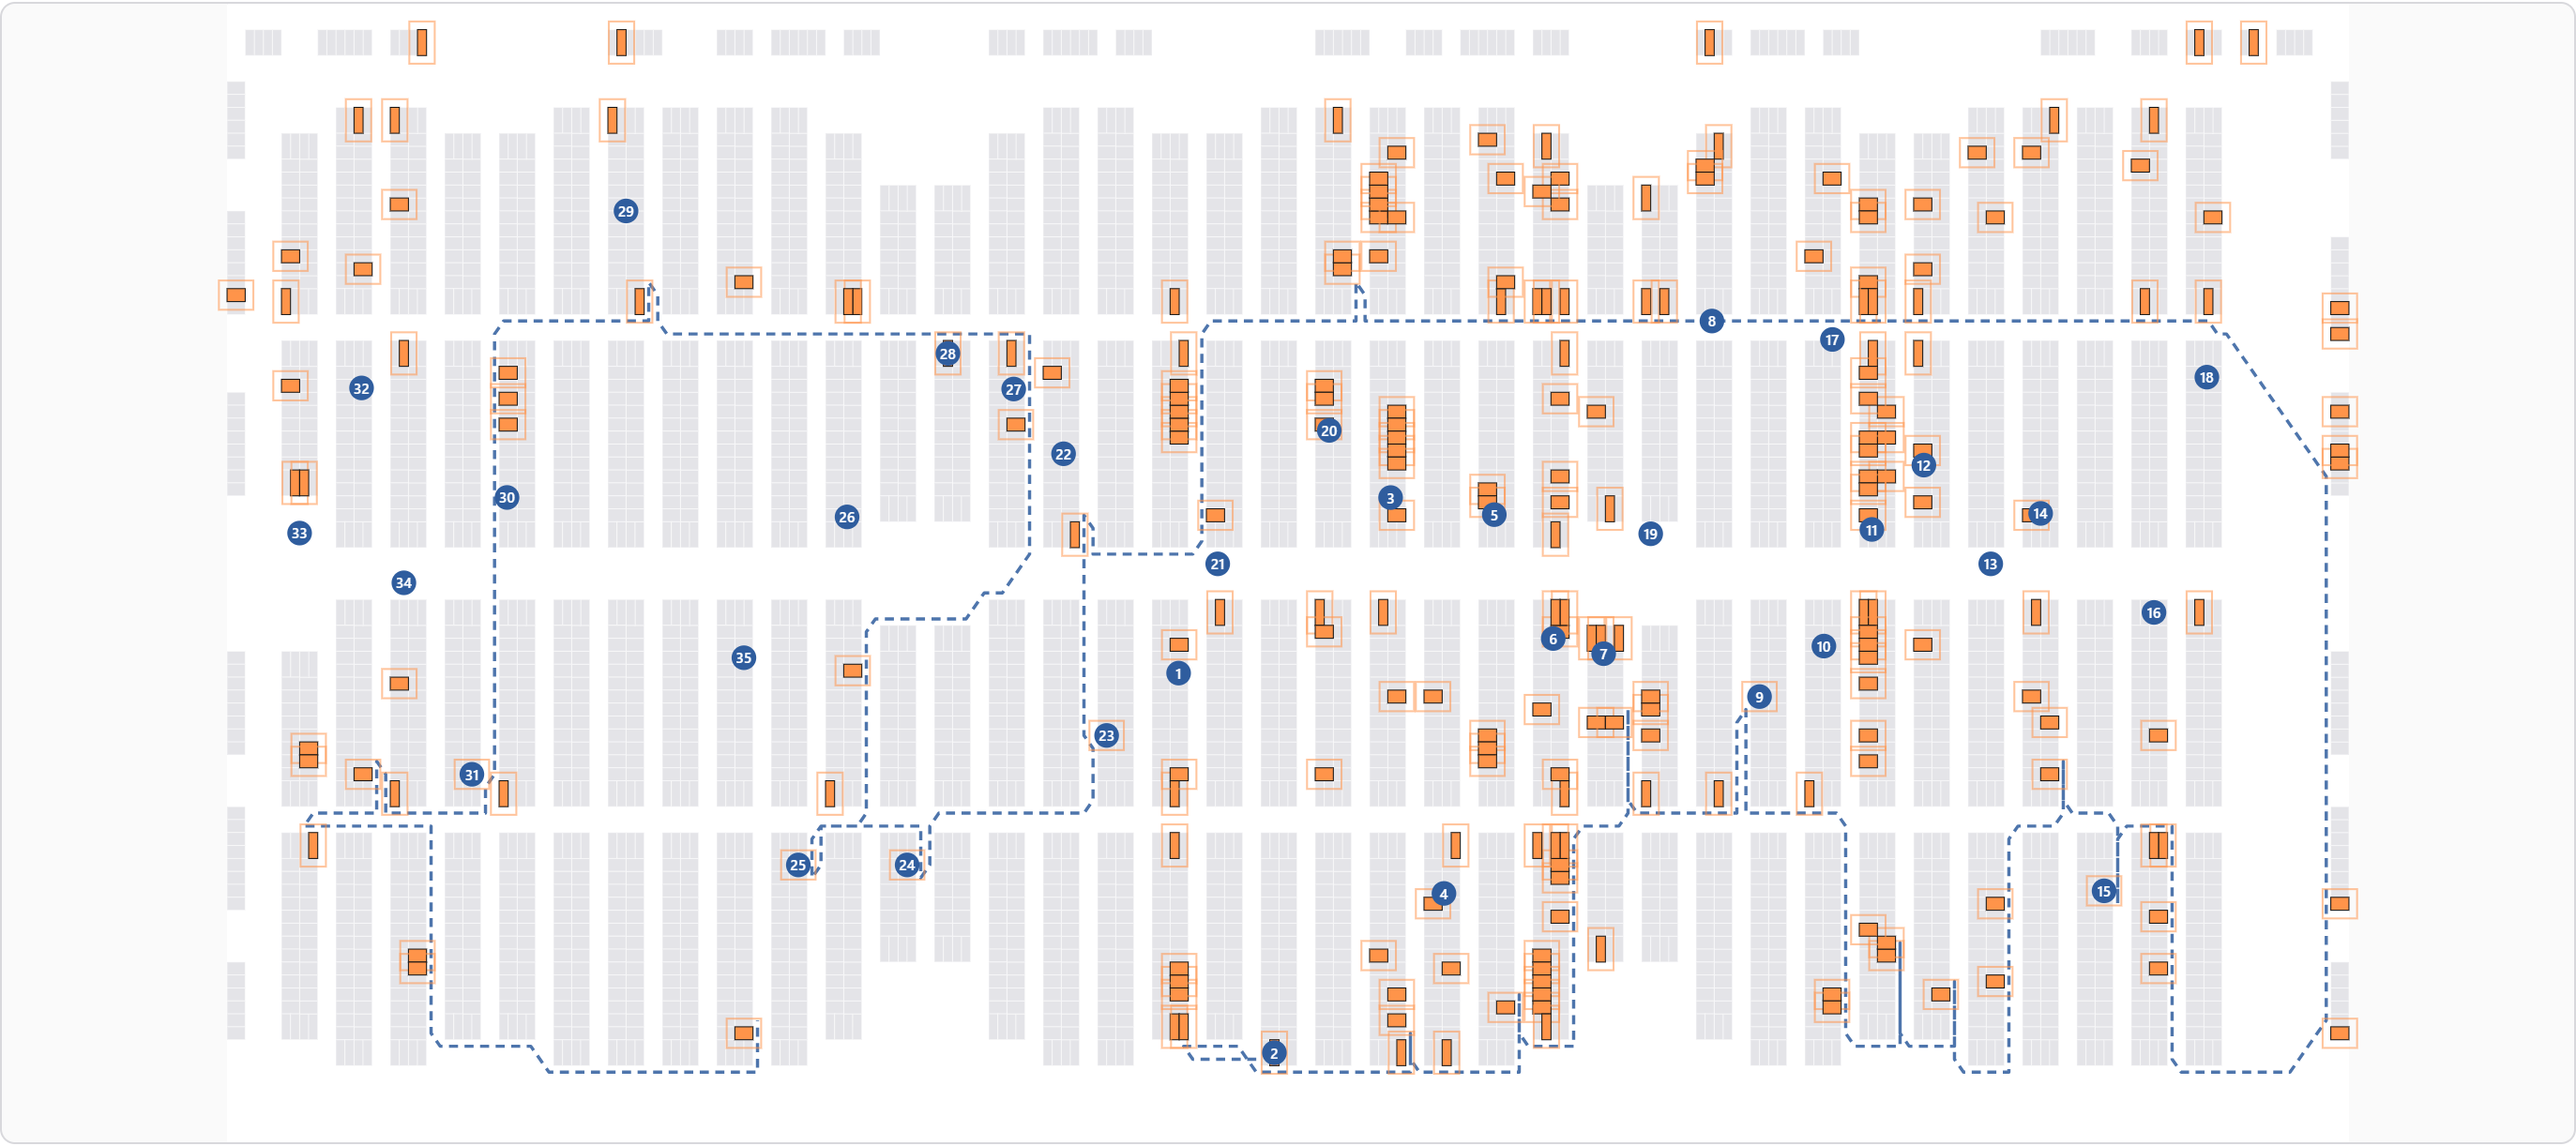
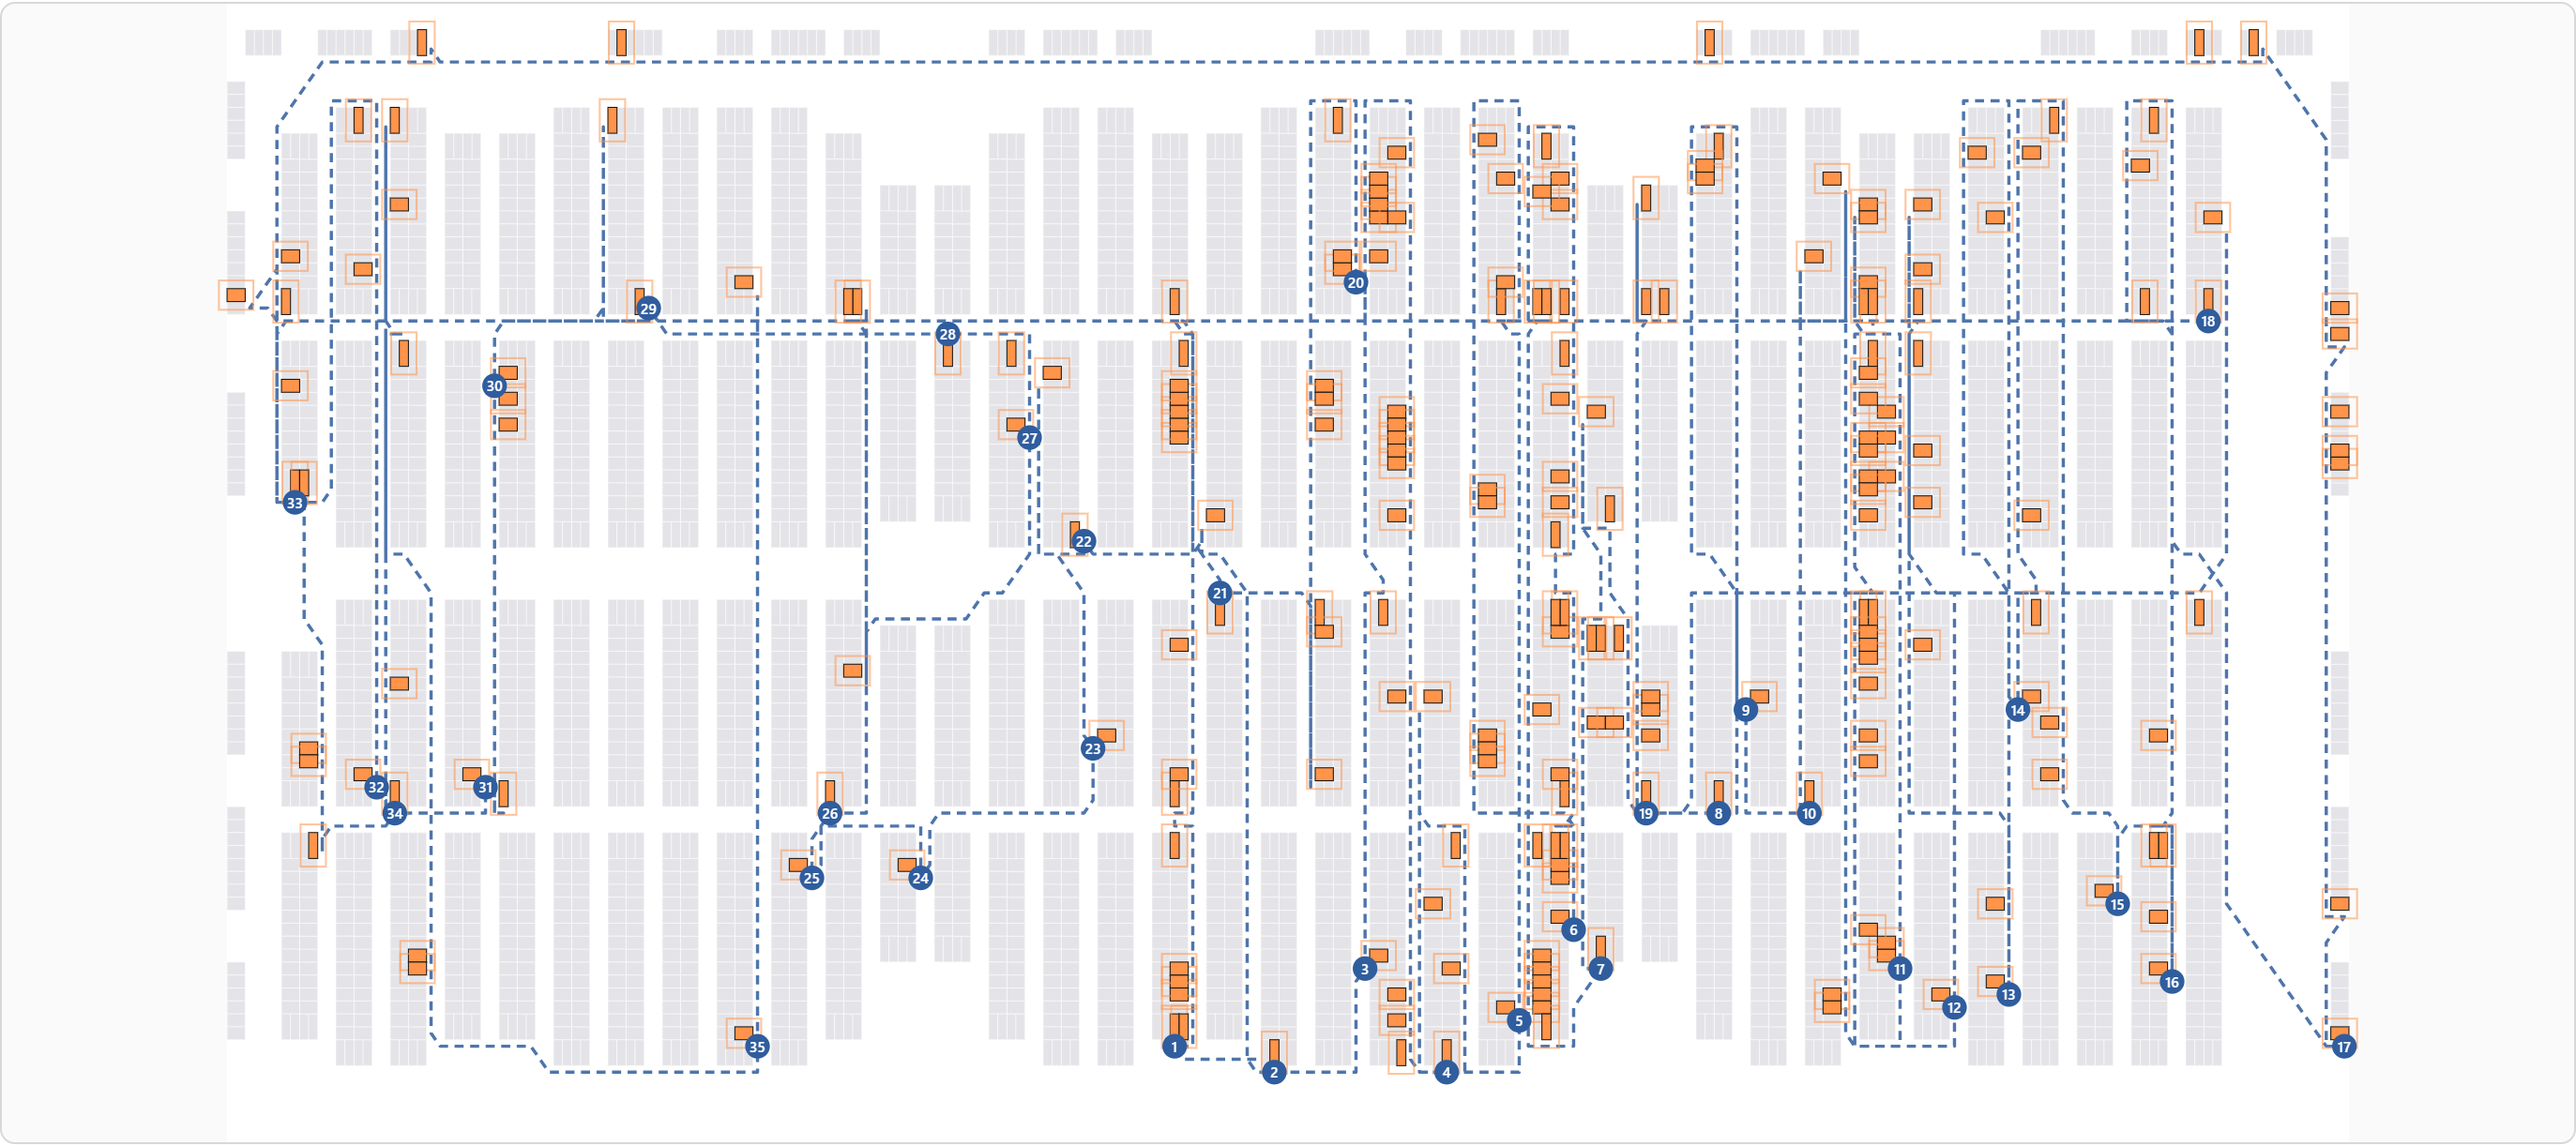
詳細は旧版の実ページへの素のリンクにした / 経路が全サークルの前を通るよう直した
旧版に classic-webcatalog.circle.ms/Circle/<wcid> というサークル1件の
実ページがあった。リンクを貼ればよいだけだったので、バックグラウンドに
開きたいサークルを預けてコンテンツスクリプトにカードを押させる仕組みは
まるごと削除した（opendetail.js とタブ管理）。

経路の描画も直した。番号を島の重心に、線を島の端に描いていたため、
35島中22島で線と番号が最大581px離れていた。番号は経路が実際に来る
入口に置き、線は1件ずつの立ち位置を通路探索でつなぐようにした。
同じブロックでも列をまたいで離れていることがあるので、島の中も直線では
なく通路をたどる。全7エリアで机の貫通0・取り残し0を確認。

diff --git a/src/lib/render.js b/src/lib/render.js
@@ -53,10 +53,12 @@
         marks.push(rect(it.geo, `class="halo" stroke="${colorOf(it)}"`, sw * 0.9));
         marks.push(rect(it.geo, `fill="${colorOf(it)}" stroke="#111" stroke-width="1.5"`));
       }
-      const p = island.pos;
+      // 番号は経路が実際に来る場所（島の入口）に置く。無ければ重心で代用。
+      const bx = island.badge ? (island.badge[0] + 0.5) * sw : island.pos.x * sw;
+      const by = island.badge ? (island.badge[1] + 0.5) * sh : island.pos.y * sh;
       badges.push(
-        `<g class="badge"><circle cx="${p.x * sw}" cy="${p.y * sh}" r="${sh * 0.95}"/>` +
-          `<text x="${p.x * sw}" y="${p.y * sh}">${n}</text></g>`
+        `<g class="badge"><circle cx="${bx}" cy="${by}" r="${sh * 0.95}"/>` +
+          `<text x="${bx}" y="${by}">${n}</text></g>`
       );
     }
 
@@ -86,6 +88,9 @@
         }
       }
       for (const [x, y] of group.route || []) add((x + 0.5) * sw, (y + 0.5) * sh);
+      for (const island of group.islands) {
+        if (island.badge) add((island.badge[0] + 0.5) * sw, (island.badge[1] + 0.5) * sh);
+      }
       if (!Number.isFinite(x1)) return { x: 0, y: 0, w: W, h: H };
 
       const pad = sw * 6;
@@ -135,23 +140,15 @@
   const yen = (n) => '¥' + Number(n || 0).toLocaleString('ja-JP');
 
   /**
-   * サイト側でそのサークルを開く URL。
+   * そのサークルの詳細ページ。
    *
-   * サイトには詳細だけの画面もモーダルも無く、一覧のカードが表示モードに応じて
-   * 展開される作りになっている。目的のサークルのところで一覧を開くのが実質の詳細表示。
-   *
-   * wcid だけを付けても効かない。wcid は一覧を絞る条件ではなく「そこへスクロールする」
-   * 指定でしかないため、一覧の1ページ目(100件)に入っていないサークルには届かない。
-   * サークル名・日・ブロックで先に絞ってからスクロールさせる必要がある。
-   * 実際に3件で試したところ、この形なら候補が 1〜6 件まで絞れて確実に画面に出た。
+   * 新しい方のサイトは SPA で、詳細は一覧のカードを押すと出るドロワー。開いても
+   * URL が変わらないので、リンクにはできない。一方 旧版(classic) にはサークル1件の
+   * 実ページがあり、`/Circle/<wcid>` でそのまま開ける（title もサークル名になる）。
+   * リンクとして貼れるならそのほうが素直なので、こちらを使う。
    */
   function siteUrl(it) {
-    const p = new URLSearchParams();
-    if (it.name) p.set('keyword', it.name);
-    if (it.day) p.set('day', String(it.day));
-    if (it.block) p.set('block', it.block);
-    p.set('wcid', String(it.wcid));
-    return `https://webcatalog.circle.ms/circle/list?${p.toString()}`;
+    return `https://classic-webcatalog.circle.ms/Circle/${encodeURIComponent(it.wcid)}`;
   }
 
   /**
@@ -212,8 +209,8 @@
         <span class="chk"></span>
         <span class="sw" style="background:${colorOf(it)}"></span>
         ${priorityField(it, opts)}
-        <a class="go" href="${esc(siteUrl(it))}" data-site-link data-wcid="${esc(it.wcid)}"
-           title="サイトでこのサークルの詳細を開く"><span class="sp">${esc(it.block)}${esc(it.space)}</span><span class="nm">${esc(it.name || '')}</span></a>
+        <a class="go" href="${esc(siteUrl(it))}" target="_blank" rel="noopener"
+           title="このサークルの詳細ページを開く"><span class="sp">${esc(it.block)}${esc(it.space)}</span><span class="nm">${esc(it.name || '')}</span></a>
         ${it.writer ? `<span class="wr">${esc(it.writer)}</span>` : ''}
         ${it.hasNewBook ? '<span class="newbadge">新刊</span>' : ''}
         ${budgetField(it, opts)}

diff --git a/src/lib/plan.js b/src/lib/plan.js
@@ -304,24 +304,56 @@
 
       const order = orderIdx.map((i) => islands[i]);
 
-      // 実際に歩く線を、通路のマスを辿って作る
-      const cells = [];
-      let fromIdx = -1;
-      for (const i of orderIdx) {
-        const field = fromIdx === -1 ? startField : fields[fromIdx];
-        const seg = gridLib.pathTo(grid, field.prev, islands[i].cell);
-        if (seg.length) cells.push(...(cells.length ? seg.slice(1) : seg));
-        fromIdx = i;
-      }
-      const route = gridLib.simplify(cells);
-
+      // 島の中の並びを、入ってきた側に近い端からにする
       let cursor = startPos;
       for (const island of order) {
         island.items = orientIsland(island, cursor);
         cursor = island.items[island.items.length - 1].pos;
       }
 
-      const length = gridLib.toSpaces(cost);
+      // 各サークルの前に立つマスを出す。経路はここを順に通る。
+      for (const island of order) {
+        island.stops = island.items
+          .map((it) => gridLib.accessCell(grid, it.geo?.space || it.geo?.cut, it.pos))
+          .filter(Boolean);
+        if (!island.stops.length && island.cell) island.stops = [island.cell];
+        // バッジは経路が実際に来る場所（島の入口）に置く。
+        // 島の重心に置くと、机の上に番号が乗って線と離れて見える。
+        island.badge = island.stops[0] || island.cell;
+      }
+
+      // 実際に歩く線をつなぐ。
+      // 同じブロックでも列をまたいで離れていることがあるので、島の中も含めて
+      // すべての区間を通路探索でつなぐ。直線で結ぶと机を突っ切ってしまう。
+      const stops = order.flatMap((island) => island.stops);
+      const cells = [];
+      let walked = 0;
+      let fromCell = startCell;
+
+      const fieldCache = new Map();
+      const fieldFrom = (cell) => {
+        const k = `${cell[0]},${cell[1]}`;
+        if (!fieldCache.has(k)) fieldCache.set(k, gridLib.distances(grid, cell));
+        return fieldCache.get(k);
+      };
+
+      for (const to of stops) {
+        if (!fromCell) {
+          fromCell = to;
+          continue;
+        }
+        const field = fieldFrom(fromCell);
+        const c = field.dist[to[1] * grid.W + to[0]];
+        const seg = c >= 0 ? gridLib.pathTo(grid, field.prev, to) : [];
+        if (c > 0) walked += c;
+        if (seg.length) cells.push(...(cells.length ? seg.slice(1) : seg));
+        else cells.push(to); // 万一つながらないときも線は切らない
+        fromCell = to;
+      }
+
+      const route = gridLib.simplify(cells);
+
+      const length = gridLib.toSpaces(walked || cost);
       const naiveLength = gridLib.toSpaces(naiveCost);
 
       out.push({

diff --git a/src/background/background.js b/src/background/background.js
@@ -11,16 +11,6 @@
   const api = typeof browser !== 'undefined' && browser.runtime ? browser : chrome;
 
   // シートから開いたサイトのタブ。閉じられていたら作り直す。
-  let siteTabId = null;
-
-  // タブごとに「開いたら詳細を出してほしいサークル」を預かる。
-  // SPA が自分でURLを書き換えるため、URL に目印を載せる方法は使えない。
-  const pendingDetail = new Map();
-
-  api.tabs.onRemoved.addListener((id) => {
-    if (id === siteTabId) siteTabId = null;
-    pendingDetail.delete(id);
-  });
 
   api.runtime.onMessage.addListener((msg, _sender, sendResponse) => {
     if (msg?.type === 'download') {
@@ -43,44 +33,6 @@
 
     // シートからサークルを開くとき。次々に押してもタブが増えないよう、
     // 1枚だけ持っておいて使い回す。
-    if (msg?.type === 'open-site' && msg.url) {
-      const remember = (tabId) => {
-        siteTabId = tabId ?? null;
-        // 詳細は URL では開けない。開いた先のコンテンツスクリプトが取りに来るので預けておく。
-        if (tabId != null && msg.wcid) pendingDetail.set(tabId, String(msg.wcid));
-      };
-
-      const open = () =>
-        api.tabs.create({ url: msg.url }, (tab) => {
-          remember(tab?.id);
-          sendResponse({ ok: true, tabId: siteTabId, reused: false });
-        });
-
-      if (siteTabId === null) {
-        open();
-      } else {
-        api.tabs.update(siteTabId, { url: msg.url, active: true }, (tab) => {
-          if (api.runtime.lastError || !tab) {
-            siteTabId = null;
-            open();
-          } else {
-            remember(siteTabId);
-            sendResponse({ ok: true, tabId: siteTabId, reused: true });
-          }
-        });
-      }
-      return true;
-    }
-
-    // 開いた先のページから「自分に用があるか」を聞かれたときに渡す。一度きり。
-    if (msg?.type === 'take-pending-detail') {
-      const tabId = _sender?.tab?.id;
-      const wcid = tabId != null ? pendingDetail.get(tabId) : undefined;
-      if (tabId != null) pendingDetail.delete(tabId);
-      sendResponse({ ok: true, wcid: wcid || null });
-      return true;
-    }
-
     return false;
   });
 })();

diff --git a/src/sheet/sheet.js b/src/sheet/sheet.js
@@ -214,15 +214,6 @@
     recalcTotals();
   }
 
-  // サークル名を押したら、サイトのそのサークルのところを開く。
-  // タブが増え続けないよう、開く先は背景側で1枚に固定している。
-  $('content').addEventListener('click', (e) => {
-    const a = e.target.closest('a[data-site-link]');
-    if (!a) return;
-    e.preventDefault();
-    runtime.sendMessage({ type: 'open-site', url: a.href, wcid: a.dataset.wcid });
-  });
-
   window.addEventListener('beforeunload', flush);
   window.addEventListener('beforeprint', flush);
 

diff --git a/src/content/content.js b/src/content/content.js
@@ -28,9 +28,6 @@
     if (settings.autoCollect) collect.startObserver();
 
     panel.ensure();
-
-    // シートから飛んできた場合は、そのサークルの詳細まで開く
-    root.WCH.openDetail.run();
   }
 
   /** 一覧が描画されるのを待ってから起動する。 */
